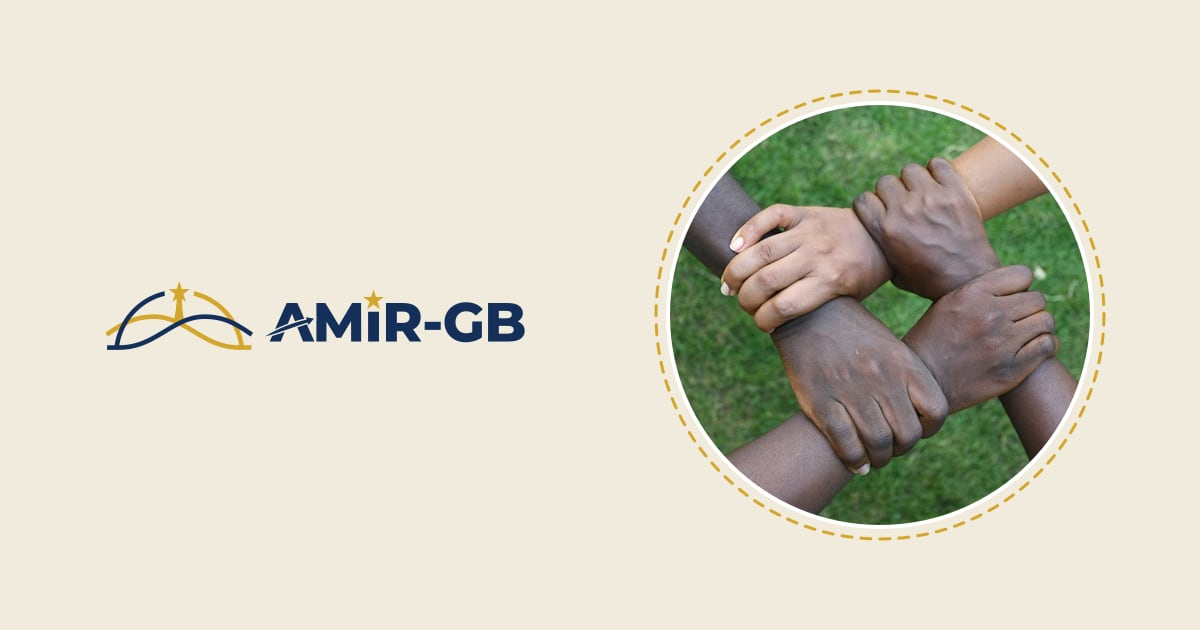
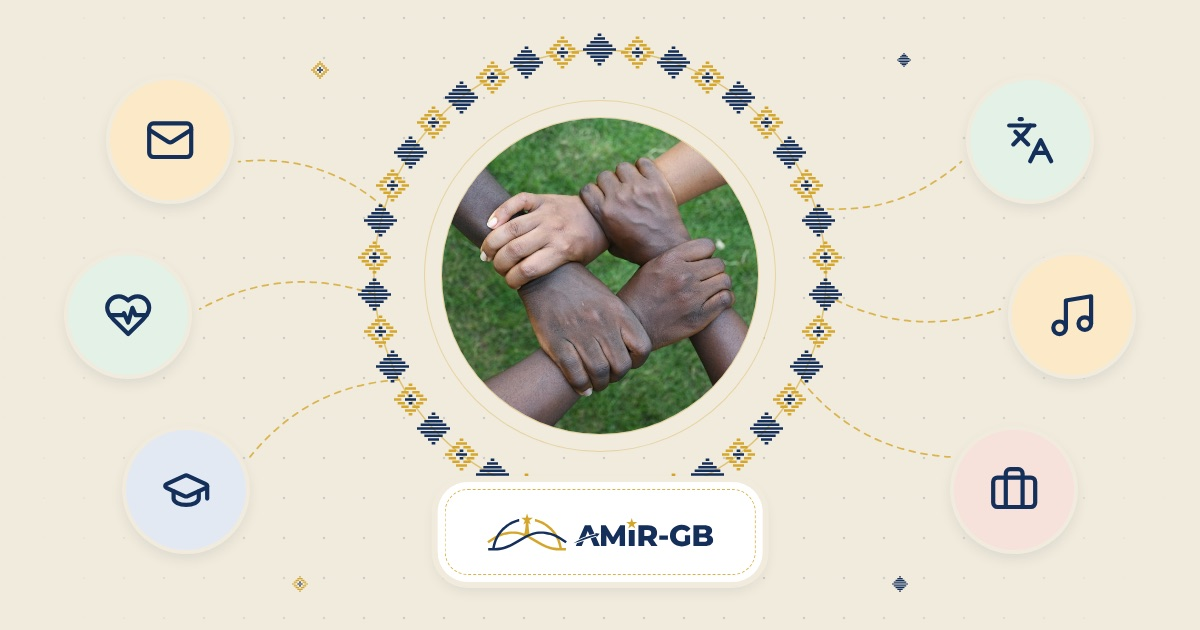
feat(seo): use the approved share card for link previews
Swap in the Share-Card board from the design canvas, describe it in all three languages and add og:image:type for the default card.

diff --git a/src/i18n/translations/nl.ts b/src/i18n/translations/nl.ts
@@ -44,7 +44,8 @@ export const nl: Translations = {
     "AMIR-GB, Vereniging voor de ondersteuning van migranten en de Guinee-Bissause gemeenschap in Nederland",
   "footer.manageGift": "Maandelijkse gift stoppen of wijzigen",
   "social.label": "AMIR-GB op sociale media",
-  "seo.shareImageAlt": "AMIR-GB: handen die elkaar vasthouden",
+  "seo.shareImageAlt":
+    "AMIR-GB: handen ineen in een geweven kring, met de hulponderwerpen eromheen",
   "eventsPage.pageTitle": "Agenda · AMIR-GB",
   "eventsPage.calendarPageTitle": "Agenda: kalender · AMIR-GB",
   "archive.pageTitle": "Eerdere activiteiten · AMIR-GB",

diff --git a/src/i18n/translations/pt.ts b/src/i18n/translations/pt.ts
@@ -44,7 +44,7 @@ export const pt: Translations = {
     "AMIR-GB, Associação de Apoio aos Migrantes e à Comunidade Guineense nos Países Baixos",
   "footer.manageGift": "Parar ou alterar um donativo mensal",
   "social.label": "AMIR-GB nas redes sociais",
-  "seo.shareImageAlt": "AMIR-GB: mãos dadas",
+  "seo.shareImageAlt": "AMIR-GB: mãos dadas num círculo tecido, com os temas de ajuda à volta",
   "eventsPage.pageTitle": "Agenda · AMIR-GB",
   "eventsPage.calendarPageTitle": "Agenda: calendário · AMIR-GB",
   "archive.pageTitle": "Eventos passados · AMIR-GB",

diff --git a/src/i18n/translations/en.ts b/src/i18n/translations/en.ts
@@ -41,7 +41,7 @@ export const en = {
     "AMIR-GB, Association for the support of migrants and the Guinea-Bissau community in the Netherlands",
   "footer.manageGift": "Stop or change a monthly gift",
   "social.label": "AMIR-GB on social media",
-  "seo.shareImageAlt": "AMIR-GB: hands joined together",
+  "seo.shareImageAlt": "AMIR-GB: joined hands in a woven ring, with the help topics around them",
   "eventsPage.pageTitle": "What’s on · AMIR-GB",
   "eventsPage.calendarPageTitle": "What’s on: calendar · AMIR-GB",
   "archive.pageTitle": "Past events · AMIR-GB",

diff --git a/src/lib/seo/helpers.ts b/src/lib/seo/helpers.ts
@@ -82,6 +82,7 @@ function getShareImage(seo: PageSeo, site: URL, shareImageAlt: string): HeadSeo[
       url: toAbsoluteUrl(seo.image, site),
       width: null,
       height: null,
+      type: null,
       alt: seo.imageAlt ?? shareImageAlt,
     };
   }
@@ -91,6 +92,7 @@ function getShareImage(seo: PageSeo, site: URL, shareImageAlt: string): HeadSeo[
     url: toAbsoluteUrl(SHARE_IMAGE.SRC, site),
     width: SHARE_IMAGE.WIDTH,
     height: SHARE_IMAGE.HEIGHT,
+    type: SHARE_IMAGE.TYPE,
     alt: shareImageAlt,
   };
 }

diff --git a/src/lib/seo/types.ts b/src/lib/seo/types.ts
@@ -70,7 +70,13 @@ export type HeadSeo = {
   ogType: OgType;
   ogLocale: string;
   ogLocaleAlternates: string[];
-  image: { url: string; width: number | null; height: number | null; alt: string };
+  image: {
+    url: string;
+    width: number | null;
+    height: number | null;
+    type: string | null;
+    alt: string;
+  };
 };
 
 /**

diff --git a/src/lib/seo/helpers.test.ts b/src/lib/seo/helpers.test.ts
@@ -66,6 +66,7 @@ describe("buildHeadSeo", () => {
       url: "https://www.amir-gb.nl/og/amir-gb.jpg",
       width: 1200,
       height: 630,
+      type: "image/jpeg",
       alt: "AMIR-GB",
     });
   });

diff --git a/src/lib/seo/constants.ts b/src/lib/seo/constants.ts
@@ -43,6 +43,7 @@ export const SHARE_IMAGE = {
   SRC: "/og/amir-gb.jpg",
   WIDTH: 1200,
   HEIGHT: 630,
+  TYPE: "image/jpeg",
 } as const;
 
 /**

diff --git a/README.md b/README.md
@@ -329,7 +329,7 @@ Everything a search engine or a link preview reads lives in `src/lib/seo/` and `
   - the canonical address, which is the page's own path, so filters and calendar months (`?type=`, `?month=`, `?year=`) point at the clean page;
   - `hreflang` alternates for Dutch, English and Portuguese, plus `x-default` (Dutch);
   - Open Graph and Twitter tags: title, description, address, type, language and its alternates, and the share image.
-- **The share image** is `public/og/amir-gb.jpg` (1200×630): the logo on sand beside the joined hands in a stitched ring, an interim card until the design session draws one.
+- **The share image** is `public/og/amir-gb.jpg` (1200×630 JPG, about 110 KB, under WhatsApp's limit for the large preview), the Share-Card board from the design canvas: the joined hands in a woven ring with the help topics round them and the logo. It has no words, so one card serves every language, and its centre square holds the ring and logo for apps that crop to a square. Posts and events use their own photo.
 - **Posts and events** carry their own language versions, read from EmDash's translations (`getEntryAlternates`, with slashed addresses), so a Dutch-only post lists only Dutch. Shown at another language's address, it points its canonical at the Dutch page. Their photo is their share image, and their titles end in "· AMIR-GB".
 - **The editors' SEO panel.** Posts and events have EmDash's SEO support switched on in `seed/seed.json`, with a URL pattern (`/news/{slug}`, `/events/{slug}`). Each one gets an SEO panel in the admin: a search title, description, share image, canonical and "hide from search". What an editor fills in wins over the defaults (`getEntryPageSeo`).
 - **Sitemaps.** The site serves its own, so EmDash does not add its own (it skips `/sitemap.xml` and `/robots.txt` when a site defines them):
